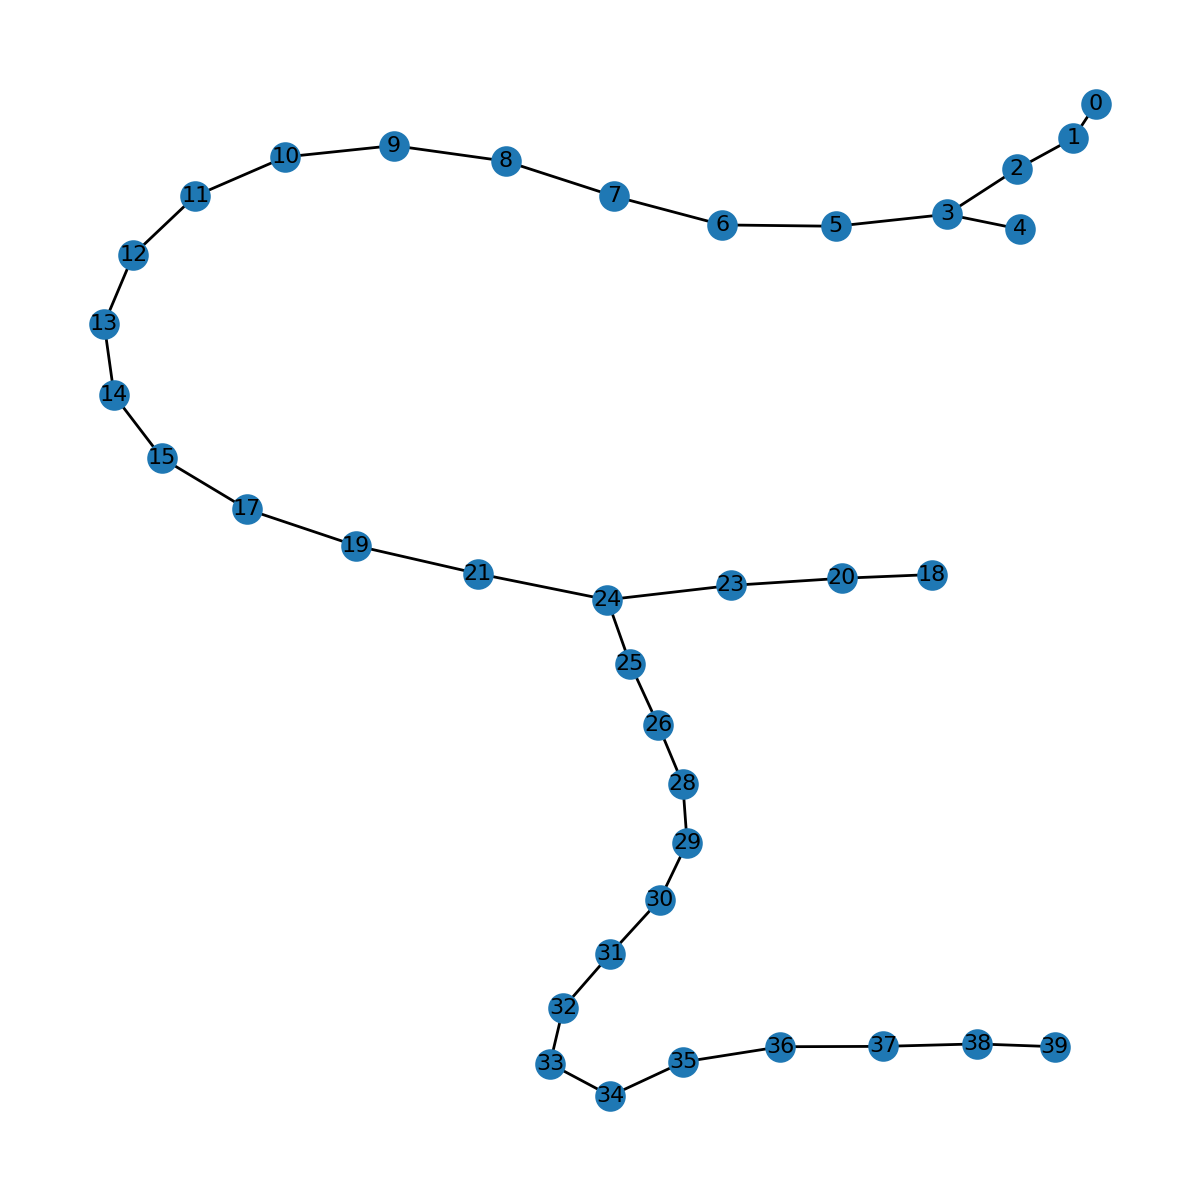
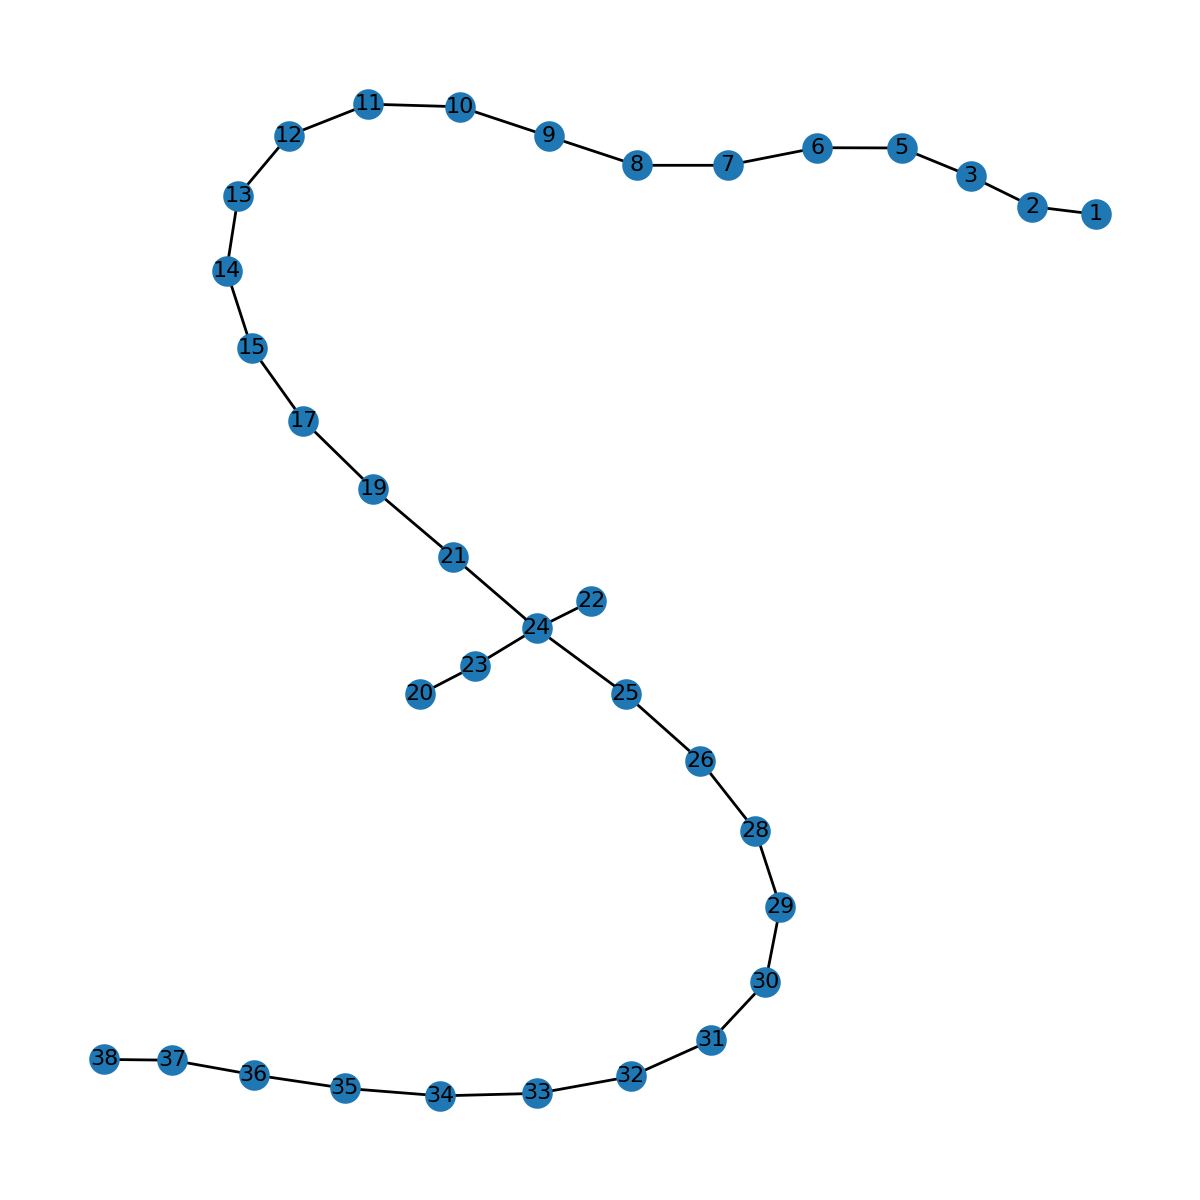
Flip pruning

diff --git a/core/graph_ssm/tree_utils_tests/test_pruning.py b/core/graph_ssm/tree_utils_tests/test_pruning.py
@@ -1,11 +1,66 @@
-import pytest
 import torch
+import os
+import sys
 
-from core.graph_ssm.tree_utils import prune_tree_by_weight
-from core.graph_ssm.tree_utils_tests.pruning_test_cases import (
+# Add the parent directory to Python path
+sys.path.append(os.path.join(os.path.dirname(__file__), '..'))
+
+from tree_utils import prune_tree_by_weight
+from tree_utils_tests.pruning_test_cases import (
     small_test_case,
     training_test_case,
 )
+
+
+def _save_edge_info(tree: torch.Tensor, pairs: torch.Tensor, weights: torch.Tensor, 
+                   pruned: torch.Tensor, threshold: float, case_dir: str):
+    """Save original and pruned edge information to text files."""
+    base_dir = os.path.dirname(__file__)
+    out_dir = os.path.join(base_dir, "outputs", case_dir)
+    os.makedirs(out_dir, exist_ok=True)
+    
+    # Process only the first batch for simplicity
+    if tree.shape[0] > 0:
+        batch_idx = 0
+        tree_b = tree[batch_idx]
+        weights_b = weights[batch_idx]
+        pruned_b = pruned[batch_idx]
+        
+        # Create a mapping from edge pairs to weights
+        pair_to_weight = {}
+        for i, (u, v) in enumerate(pairs.tolist()):
+            pair_to_weight[(u, v)] = weights_b[i].item()
+            pair_to_weight[(v, u)] = weights_b[i].item()  # bidirectional
+        
+        # Save raw data to file
+        analysis_file = os.path.join(out_dir, "edge_analysis.md")
+        with open(analysis_file, 'w') as f:
+            # Get original MST edges and weights
+            original_edges_list = [e for e in tree_b.tolist() if not (e[0] == 0 and e[1] == 0)]
+            original_weights_list = [round(pair_to_weight.get((u, v), 0.0), 4) for u, v in original_edges_list]
+            
+            # Get pruned MST edges and weights
+            pruned_edges_list = [e for e in pruned_b.tolist() if not (e[0] == 0 and e[1] == 0)]
+            pruned_weights_list = [round(pair_to_weight.get((u, v), 0.0), 4) for u, v in pruned_edges_list]
+            
+            # Create markdown table: Original edges, Original weights, Pruned edges, Pruned weights
+            f.write("| Original Edges | Original Weights | Pruned Edges | Pruned Weights |\n")
+            f.write("|----------------|------------------|--------------|----------------|\n")
+            
+            # Find the maximum length to pad shorter lists
+            max_len = max(len(original_edges_list), len(pruned_edges_list))
+            
+            # Pad shorter list with empty strings
+            original_edges_padded = original_edges_list + [""] * (max_len - len(original_edges_list))
+            original_weights_padded = original_weights_list + [""] * (max_len - len(original_weights_list))
+            pruned_edges_padded = pruned_edges_list + [""] * (max_len - len(pruned_edges_list))
+            pruned_weights_padded = pruned_weights_list + [""] * (max_len - len(pruned_weights_list))
+            
+            # Write each row
+            for i in range(max_len):
+                f.write(f"| {original_edges_padded[i]} | {original_weights_padded[i]} | {pruned_edges_padded[i]} | {pruned_weights_padded[i]} |\n")
+        
+        print(f"\nSaved raw edge data to: {analysis_file}")
 
 
 def _safe_draw(edges_tensor: torch.Tensor, case_dir: str, file_name: str):
@@ -40,7 +95,6 @@ def _safe_draw(edges_tensor: torch.Tensor, case_dir: str, file_name: str):
     plt.close()
 
 
-@pytest.mark.parametrize("case_fn", [small_test_case, training_test_case])
 def test_pruning_runs(case_fn):
     tree, pairs, weights, threshold = case_fn()
     # Ensure tensors are on CPU for consistency in tests
@@ -53,10 +107,26 @@ def test_pruning_runs(case_fn):
     assert isinstance(pruned, torch.Tensor)
     assert pruned.dim() == 3 and pruned.size(-1) == 2
 
-    # Draw original and pruned for all batch elements
+    # Save edge information to files
     case_name = getattr(case_fn, "__name__", "case")
+    _save_edge_info(tree, pairs, weights, pruned, threshold, case_name)
+
+    # Draw original and pruned for all batch elements
     B = tree.shape[0]
     for b in range(B):
         _safe_draw(tree[b], case_name, f"b{b:02d}_original.png")
         _safe_draw(pruned[b], case_name, f"b{b:02d}_pruned.png")
+
+
+if __name__ == "__main__":
+    # Run tests for both cases
+    print("Running pruning tests...")
+    
+    print("\n=== Testing small_test_case ===")
+    test_pruning_runs(small_test_case)
+    
+    print("\n=== Testing training_test_case ===")
+    test_pruning_runs(training_test_case)
+    
+    print("\nAll tests completed!")
 

diff --git a/core/graph_ssm/tree_utils.py b/core/graph_ssm/tree_utils.py
@@ -1,4 +1,5 @@
 import torch
+import os
 
 def _build_pair_index(original_pairs: torch.Tensor):
     """Bidirectional (u,v)->col index map for O(1) lookups."""
@@ -34,10 +35,10 @@ def prune_tree_by_weight(
     tree: torch.Tensor,
     original_pairs: torch.Tensor,
     weights: torch.Tensor,
-    threshold: float,
+    threshold: float
 ):
-    """Prune edges with weight <= threshold, leaf-only (single pass).
-       Only prune edges that are leaves AND <= threshold.
+    """Prune edges with weight >= threshold, leaf-only (single pass).
+       Only prune edges that are leaves AND >= threshold.
     Args:
         tree: [B, E_mst, 2] MST edges (undirected)
         original_pairs: [E_orig, 2]
@@ -46,6 +47,13 @@ def prune_tree_by_weight(
     Returns:
         [B, E_kept_max, 2] pruned & padded trees
     """
+
+    # Print the tree
+    print("Tree before pruning:")
+    print(tree)
+    # Print the weights
+    print("Weights before pruning:")
+    print(weights)
     assert tree.dim() == 3 and tree.size(-1) == 2
     assert weights.dim() == 2
     device = tree.device
@@ -57,8 +65,8 @@ def prune_tree_by_weight(
         ew = _edge_weights_for_batch_edges(edges_b, weights[b], pair_index, device)
 
         leaf_mask = _leaf_mask_for_edges(edges_b)
-        # keep if NOT a leaf OR weight > threshold
-        keep_mask = (~leaf_mask) | (ew > threshold)
+        # keep if NOT a leaf OR weight < threshold
+        keep_mask = (~leaf_mask) | (ew < threshold)
 
         pruned_trees.append(edges_b[keep_mask])
 
@@ -71,4 +79,59 @@ def prune_tree_by_weight(
             t = torch.cat([t, pad], dim=0)
         padded.append(t)
 
-    return torch.stack(padded) if padded else torch.empty_like(tree)
+    result = torch.stack(padded) if padded else torch.empty_like(tree)
+    
+    # Print padded results after padding occurs
+    # Hardcoded output directory
+    output_dir = "core/graph_ssm/tree_utils_tests/outputs"
+    # Create output directory if it doesn't exist
+    os.makedirs(output_dir, exist_ok=True)
+        
+    # Process only the first batch for simplicity
+    if result.shape[0] > 0:
+        batch_idx = 0
+        padded_tree_b = result[batch_idx]
+        weights_b = weights[batch_idx]
+        
+        # Create a mapping from edge pairs to weights
+        pair_to_weight = {}
+        for i, (u, v) in enumerate(original_pairs.tolist()):
+            pair_to_weight[(u, v)] = weights_b[i].item()
+            pair_to_weight[(v, u)] = weights_b[i].item()  # bidirectional
+        
+        # Get original MST edges and weights (before padding)
+        original_edges_list = [e for e in tree[batch_idx].tolist() if not (e[0] == 0 and e[1] == 0)]
+        original_weights_list = [round(pair_to_weight.get((u, v), 0.0), 4) for u, v in original_edges_list]
+        
+        # Get padded edges and weights (after padding)
+        padded_edges_list = padded_tree_b.tolist()
+        padded_weights_list = [round(pair_to_weight.get((u, v), 0.0), 4) if not (u == 0 and v == 0) else "" for u, v in padded_edges_list]
+        
+        # Save to markdown file
+        analysis_file = os.path.join(output_dir, "edge_analysis_padded.md")
+        with open(analysis_file, 'w') as f:
+            f.write("| Original Edges | Original Weights | Padded Edges | Padded Weights |\n")
+            f.write("|----------------|------------------|--------------|----------------|\n")
+            
+            # Find the maximum length to pad shorter lists
+            max_len = max(len(original_edges_list), len(padded_edges_list))
+            
+            # Pad shorter list with empty strings
+            original_edges_padded = original_edges_list + [""] * (max_len - len(original_edges_list))
+            original_weights_padded = original_weights_list + [""] * (max_len - len(original_weights_list))
+            padded_edges_padded = padded_edges_list + [""] * (max_len - len(padded_edges_list))
+            padded_weights_padded = padded_weights_list + [""] * (max_len - len(padded_weights_list))
+            
+            # Write each row
+            for i in range(max_len):
+                f.write(f"| {original_edges_padded[i]} | {original_weights_padded[i]} | {padded_edges_padded[i]} | {padded_weights_padded[i]} |\n")
+        
+        print(f"\nSaved padded edge analysis to: {analysis_file}")
+    
+
+    # Print the result
+    print("Edges after pruning:")
+    print(result)
+    print("Weights after pruning:")
+    print(weights)
+    return result

diff --git a/core/graph_ssm/main.py b/core/graph_ssm/main.py
@@ -182,8 +182,9 @@ def tree_scanning_algorithm(self, input_states, context_len):
                 print("\nResulting MST edges:")
                 print(tree.squeeze(0))  # Remove batch dimension for clearer printing
             
-            # Prune edges with weights below threshold
-            pruning_threshold = 0.368
+            # Prune edges with weights above threshold
+            # high weight = high similarity
+            pruning_threshold = 0.3688
             tree = prune_tree_by_weight(tree, pairs, tree_weight, pruning_threshold)
             
             if tree_scanning_algorithm.iteration_count == 1:
